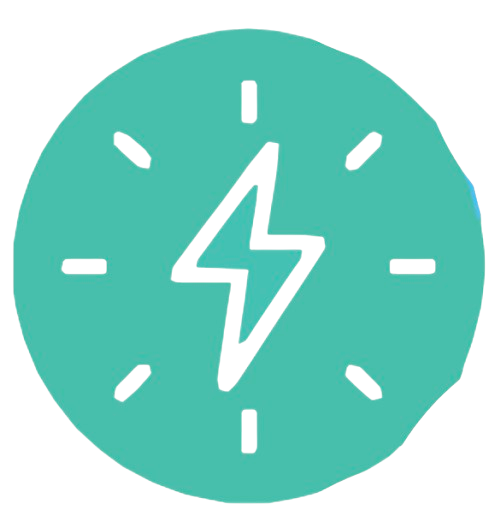
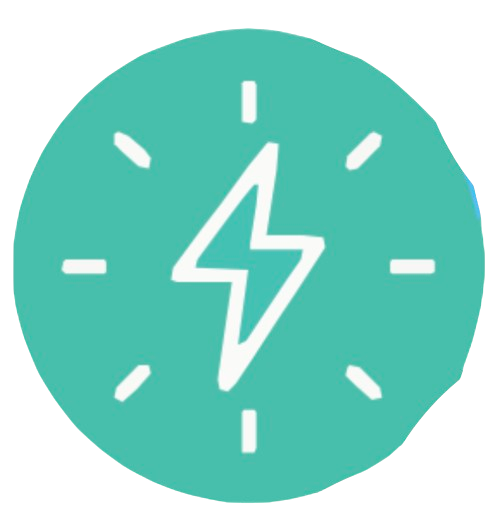
added some small changes in css, admin controls almost done

diff --git a/src/app/home/user-carousel/user-carousel.component.css b/src/app/home/user-carousel/user-carousel.component.css
@@ -84,19 +84,25 @@
     transform: translateY(-50%);
     width: 100px; 
     height: 100px;
-    border-radius: 50%;
+    border-radius: 50%; /* Circular shape */
     background-color: transparent;
-    border: 2px solid #000; 
+    border: 2px solid #ffffff; /* Border around the circle */
     display: flex;
     justify-content: center;
     align-items: center;
+    overflow: hidden; /* Ensures the zoomed image doesn't overflow the circle */
     z-index: 2; 
 }
 
 .start-finish-circle img {
-    width: 100%;
-    height: auto;
+    width: 100%; /* Fill the width of the circle */
+    height: auto; /* Maintain aspect ratio */
+    transform: scale(1.2); /* Adjust the scale factor to zoom in */
+    transform-origin: center; /* Scale from the center */
+    /* Optionally you can set height to cover the circle */
+    /* height: 100%; */
 }
+
 
 .start {
     left: 0; 

diff --git a/src/app/admin-control/admin-control.component.ts b/src/app/admin-control/admin-control.component.ts
@@ -36,7 +36,7 @@ export class AdminControlComponent {
 
   onSubmitAddScoreboardLevel() {
 
-    // change file names accordingly
+    // change file names accordingly --> create a backend request to send the files and create a folder with the new scoreboard level
     const image1Rename = '1.png'; 
     const image2Rename = '2.png';
     const lineImageRename = 'line.png';

diff --git a/src/app/admin-control/admin-controls.model.ts b/src/app/admin-control/admin-controls.model.ts
@@ -19,3 +19,13 @@ export interface boosterForm{
     },
     isActive: boolean
 }
+
+export interface File {
+    name: string;
+    size: number;
+  }
+  
+  export interface Folder {
+    name: string;
+    files: File[];
+  }
